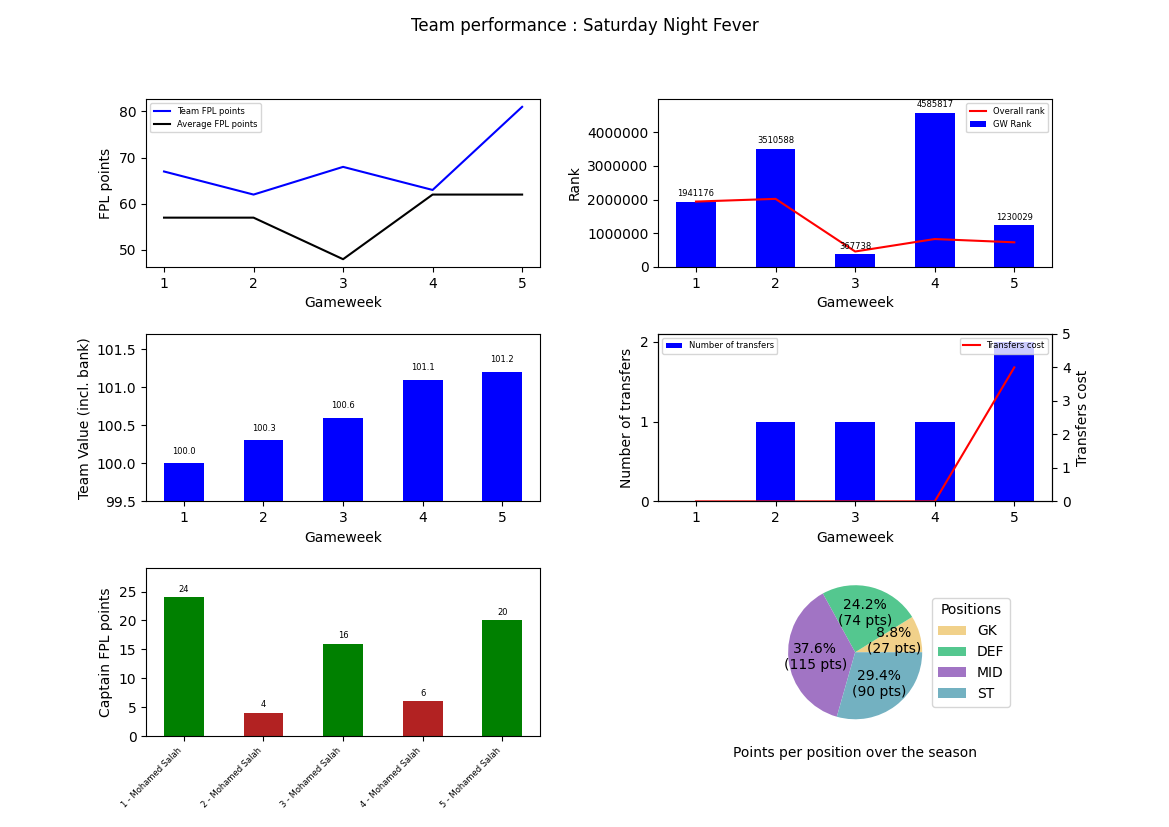
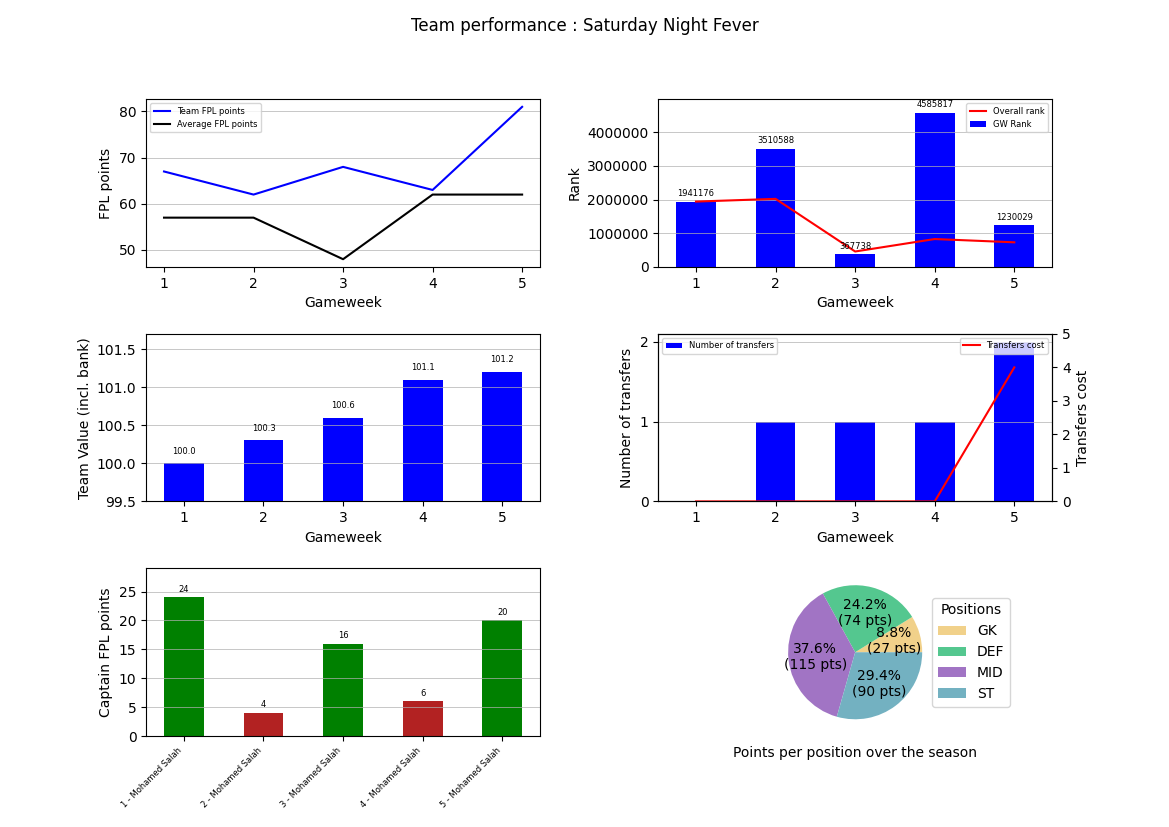
GW5 with grid lines

diff --git a/graphs.py b/graphs.py
@@ -134,6 +134,7 @@ fig.subplots_adjust(left=None, bottom=None, right=None, top=None, wspace=0.3, hs
 ### Team points
 ax1.plot(gameweek, points, color='b', label='Team FPL points')
 ax1.plot(gameweek, averagePoints, color='black', label='Average FPL points')
+ax1.grid(axis = 'y',linewidth = 0.5)
 ax1.set_xticks(gameweek)
 ax1.set_xlabel('Gameweek')
 ax1.set_ylabel('FPL points')
@@ -144,6 +145,7 @@ ax1.legend(loc='best', frameon=True, prop={'size':6})
 gameweekRank = np.array(gameweekRank)
 ax2.bar(gameweek, gameweekRank, color='b', label='GW Rank', width=0.5)
 ax2.plot(gameweek, overallRank, color='r', label='Overall rank')
+ax2.grid(axis = 'y',linewidth = 0.5)
 ax2.set_ylim(ymin=0)
 ax2.set_ylim(ymax=max(gameweekRank + 400000))
 ax2.set_xticks(gameweek)
@@ -161,6 +163,7 @@ for rect in rects:
 ax3.bar(gameweek, list(map(lambda x: x/10, teamValue)), width=0.5, color='b')
 ax3.set_ylim(ymin=min(list(map(lambda x: x/10, teamValue)))-0.5)
 ax3.set_ylim(ymax=max(list(map(lambda x: x/10, teamValue)))+0.5)
+ax3.grid(axis = 'y',linewidth = 0.5)
 ax3.set_xticks(gameweek)
 ax3.set_xlabel('Gameweek')
 ax3.set_ylabel('Team Value (incl. bank)')
@@ -175,6 +178,7 @@ for rect, label in zip(rects, labels):
 ax44 = ax4.twinx()
 ax4.bar(gameweek, transfers, color='b', label='Number of transfers', width=0.5)
 ax44.plot(gameweek, transfersCost, color='r', label='Transfers cost')
+ax4.grid(axis = 'y',linewidth = 0.5)
 ax4.set_xlabel('Gameweek')
 ax4.set_ylabel('Number of transfers')
 ax44.set_ylabel('Transfers cost')
@@ -196,6 +200,7 @@ mask1 = captainPoints > 3
 mask2 = captainPoints <= 3
 ax5.bar(gameweek[mask1], list(map(lambda x: x*2, captainPoints[mask1])), width=0.5, color='green')
 ax5.bar(gameweek[mask2], list(map(lambda x: x*2, captainPoints[mask2])), width=0.5, color='firebrick')
+ax5.grid(axis = 'y',linewidth = 0.5)
 ax5.set_ylim(ymin=0)
 ax5.set_ylim(ymax=max(list(map(lambda x: x*2, captainPoints)))+5)
 ax5.set_xticks(gameweek)
